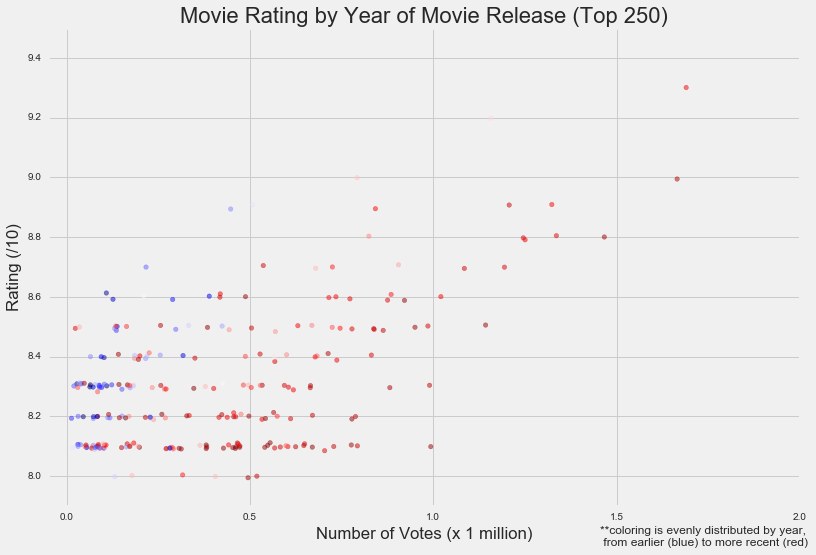
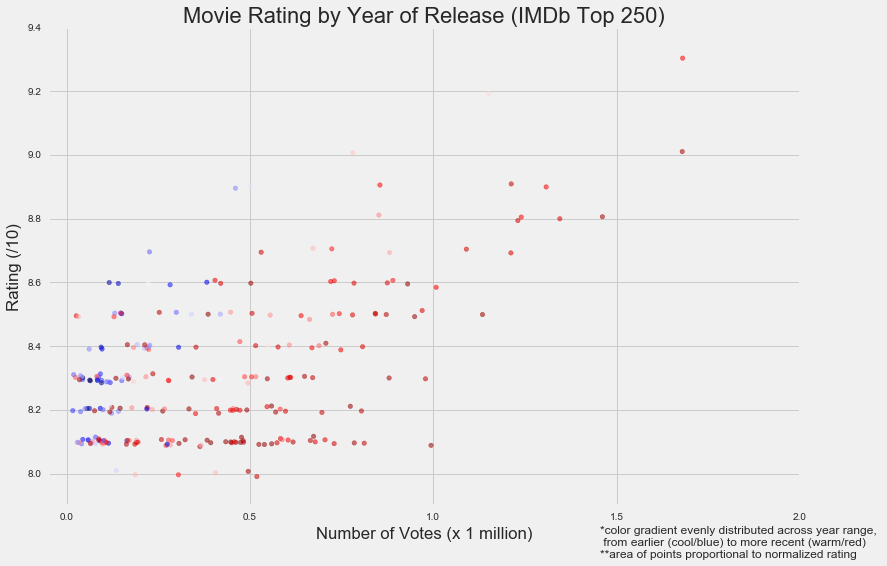
blog

diff --git a/_posts/2016-7-21-IMDbTop250.md b/_posts/2016-7-21-IMDbTop250.md
@@ -11,7 +11,7 @@ Since we are tasked with determining which factors most accurately predict user 
 ![histo](../images/movievotehisto.png)
 
 
-The general shape of the histogram makes sense; we expect the distribution of number of votes for ALL movies to be normal, not just the top 250.  Since we are only looking at the righthand slice of that, the mean of the total distribution should be on the left.  In the tail are blockbuster hits with millions of votes.
+The general shape of the histogram makes sense; we might expect the distribution of number of votes for ALL movies -- i.e., not just the top 250 -- to be normal.  Since we are only looking at the righthand slice of that, the mean of the total distribution should be on the left.  In the tail are blockbuster hits with millions of votes.
 
 What kinds of ratings do we see in the top 250 movies?  Relatively high, clearly!  Here are some stats and a histogram to illustrate:
 
@@ -35,7 +35,7 @@ What are the release years for the top 250 movies?  Perhaps unsurprisingly (when
 ![histo](../images/movieyearhisto.png)
 
 
-The plot below displays very nicely an apparent positive correlation between number of votes and user rating of a movie in the Top 250.  Additionally, we see with the aid of color that older movies (colder, blue) tend to have fewer votes AND a lower rating than newer movies (red, warmer):
+The plot below displays very nicely an apparent positive correlation between number of votes and user rating of a movie in the Top 250.  Additionally, we see with the aid of color that older movies (colder/blue) tend to have fewer votes AND a lower rating than newer movies (warmer/red):
 
 ![jitter](../images/moviejitter.png)
 
@@ -61,10 +61,4 @@ Here, we see that domestic films stopped getting MPAA's 'Not Rated'/'Unrated' ce
 
 -----------------------
 
-![scatter](../images/movieabplot.png)
-
-![scatter](../images/moviedtplot.png)
-
-![scatter](../images/movieetplot.png)
-
-![scatter](../images/moviegbplot.png)
+![scatter](../images/movierfplot.png)
